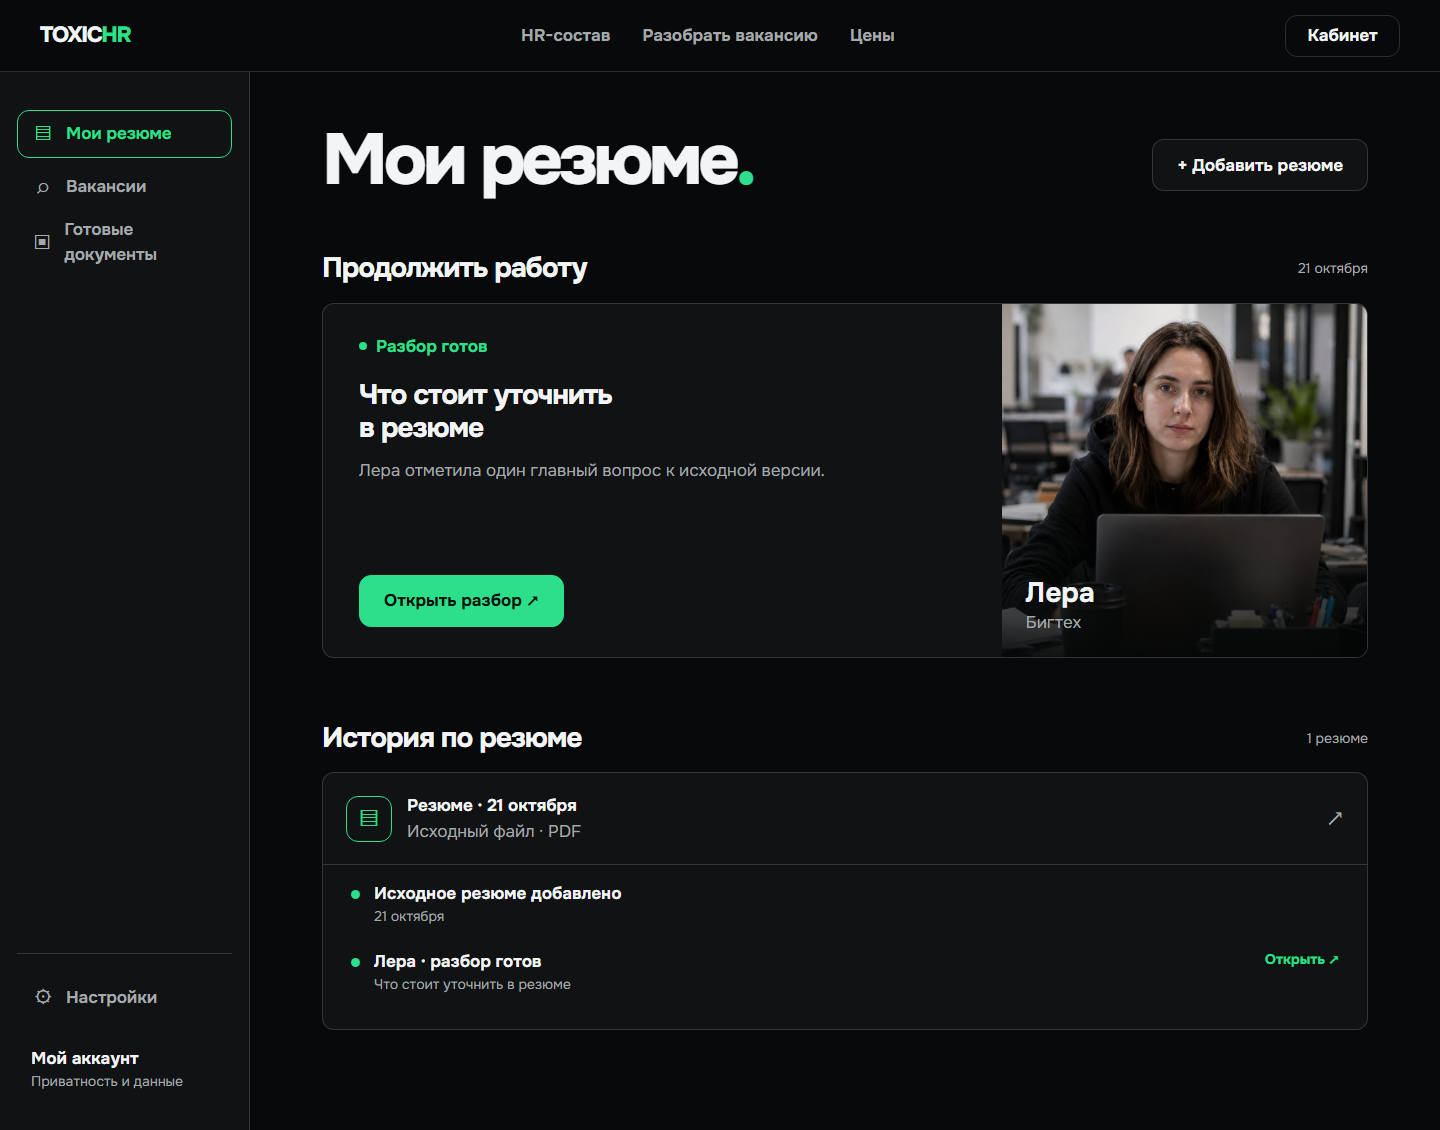
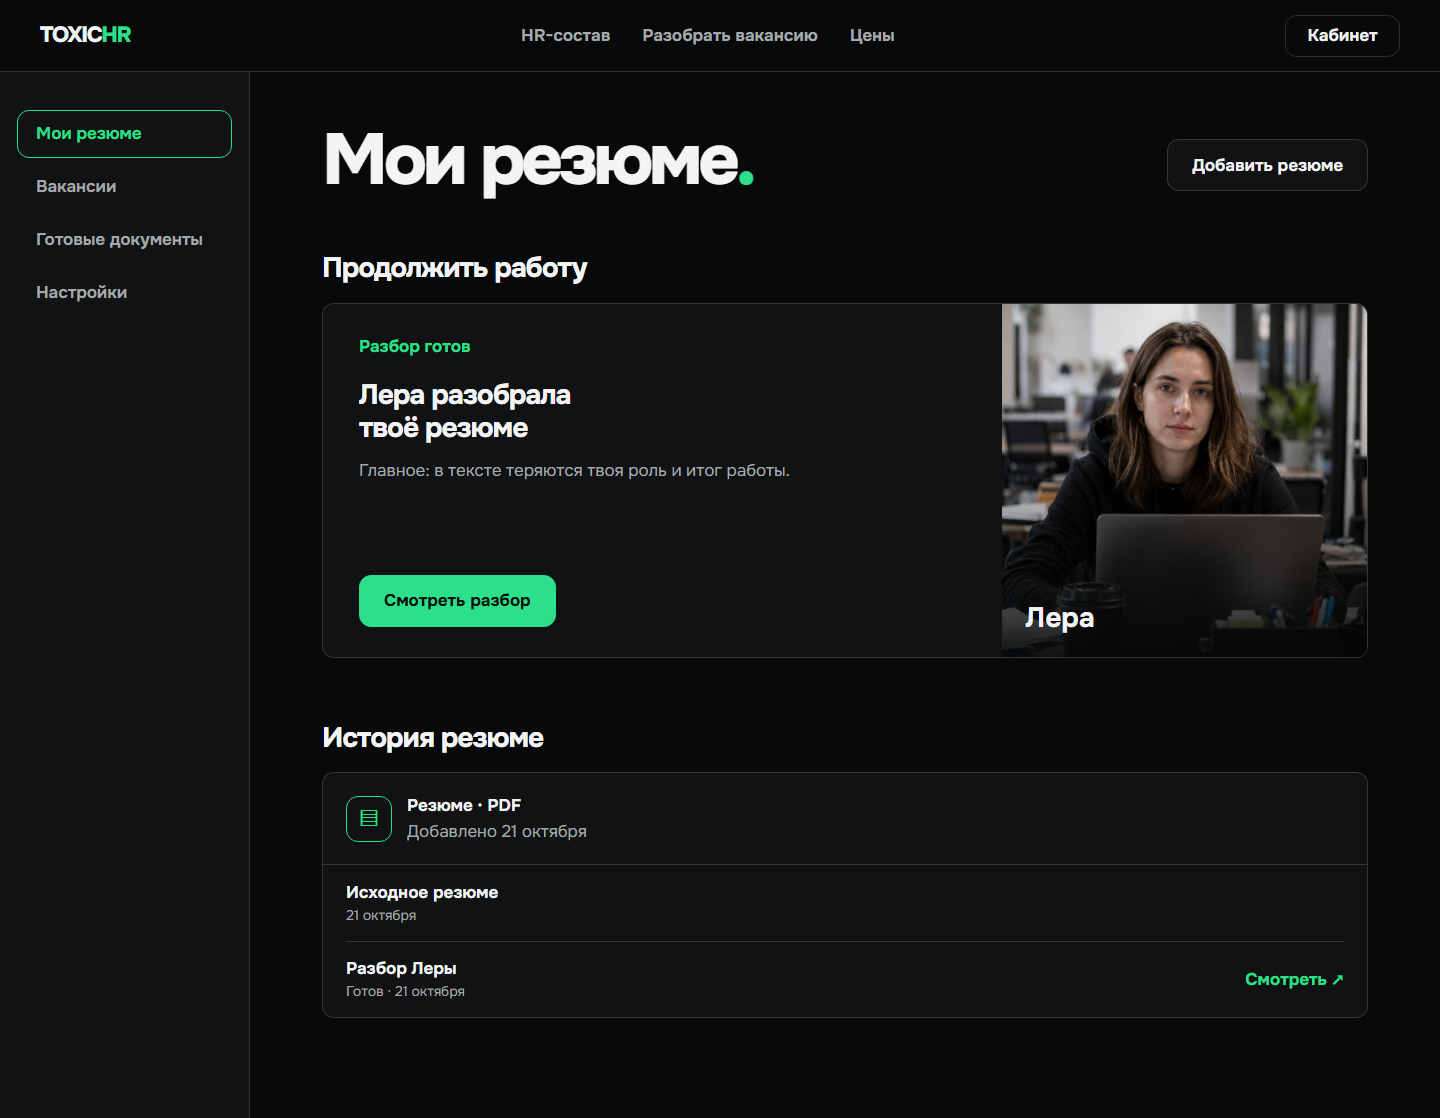
Refine ToxicHR cabinet mockup

diff --git a/prototypes/release-mockups/v2/style.css b/prototypes/release-mockups/v2/style.css
@@ -24,22 +24,18 @@
 .report-next strong { font-size: var(--type-heading); line-height: 1.16; }
 .report-next .button { min-width: 230px; }
 .cabinet-layout { display: grid; grid-template-columns: 250px minmax(0, 1fr); width: min(1480px, 100%); min-height: calc(100vh - 72px); margin: auto; }
-.side-nav { display: flex; min-height: 900px; flex-direction: column; padding: 38px 17px; border-right: 1px solid var(--border); background: var(--surface); }
+.side-nav { display: flex; min-height: calc(100vh - 72px); flex-direction: column; padding: 38px 17px; border-right: 1px solid var(--border); background: var(--surface); }
 .side-nav nav { display: flex; flex-direction: column; gap: 5px; }
-.side-item { display: flex; min-height: 48px; align-items: center; gap: 12px; padding: 0 14px; border: 1px solid transparent; border-radius: var(--radius); color: var(--muted); font-weight: 650; }
+.side-item { display: flex; min-height: 48px; align-items: center; padding: 0 18px; border: 1px solid transparent; border-radius: var(--radius); color: var(--muted); font-weight: 650; }
 .side-item.active { border-color: var(--accent); color: var(--accent); }
-.side-icon { display: grid; width: 22px; place-items: center; font-size: 21px; font-style: normal; font-weight: 400; }
-.side-bottom { margin-top: auto; padding-top: 20px; border-top: 1px solid var(--border); }
-.account { display: flex; flex-direction: column; margin: 24px 14px 0; }
-.account b { font-weight: 700; }
+.mobile-label { display: none; }
 .cabinet-main { min-width: 0; padding: 52px clamp(28px, 5vw, 76px) 100px; }
 .cabinet-head { display: flex; align-items: end; justify-content: space-between; gap: 20px; }
 .cabinet-head .button { margin-bottom: 6px; }
 .section-title { display: flex; align-items: center; justify-content: space-between; gap: 16px; margin: 55px 0 18px; }
 .resume-feature { display: grid; grid-template-columns: minmax(0, 1.3fr) minmax(260px, .7fr); height: 355px; overflow: hidden; border: 1px solid var(--border); border-radius: var(--radius); background: var(--surface); }
 .feature-copy { display: flex; flex-direction: column; align-items: flex-start; padding: 30px 36px; }
-.ready { display: flex; align-items: center; gap: 9px; color: var(--accent); font-weight: 700; }
-.ready i { width: 8px; height: 8px; border-radius: 50%; background: var(--accent); }
+.ready { color: var(--accent); font-weight: 700; }
 .feature-copy h2 { margin-top: 20px; }
 .feature-copy p { margin-top: 14px; color: var(--muted); }
 .feature-copy .button { margin-top: auto; }
@@ -48,7 +44,6 @@
 .feature-photo::after { content: ''; position: absolute; inset: 45% 0 0; background: linear-gradient(transparent, rgba(5, 7, 7, .94)); }
 .feature-photo > div { position: absolute; z-index: 1; right: 24px; bottom: 22px; left: 24px; display: flex; flex-direction: column; }
 .feature-photo b { font-size: var(--type-heading); line-height: 1.16; }
-.feature-photo span { color: var(--muted); }
 .history-title { margin-top: 64px; }
 .history-card { border: 1px solid var(--border); border-radius: var(--radius); background: var(--surface); }
 .history-head { display: flex; align-items: center; gap: 15px; padding: 20px 23px; border-bottom: 1px solid var(--border); }
@@ -56,10 +51,9 @@
 .history-head > div:nth-child(2), .history-entry > div { display: flex; flex-direction: column; }
 .history-head b, .history-entry b { font-weight: 700; }
 .history-head span { color: var(--muted); }
-.history-arrow { margin-left: auto; color: var(--accent); font-size: 25px; }
-.history-entries { padding: 16px 28px 12px; }
-.history-entry { display: flex; min-height: 68px; align-items: flex-start; gap: 14px; }
-.history-entry > i { flex: 0 0 9px; width: 9px; height: 9px; margin-top: 9px; border-radius: 50%; background: var(--accent); }
+.history-entries { padding: 0 23px; }
+.history-entry { display: flex; min-height: 76px; align-items: center; gap: 14px; }
+.history-entry + .history-entry { border-top: 1px solid var(--border); }
 .entry-action { margin-left: auto; color: var(--accent) !important; font-weight: 700; }
 @media (max-width: 1050px) {
   .report-hero { grid-template-columns: minmax(0, 1fr) 320px; gap: 30px; }
@@ -84,9 +78,10 @@
   .report-next .button { width: 100%; }
   .cabinet-layout { display: block; }
   .side-nav { min-height: 0; padding: 12px 18px; border-right: 0; border-bottom: 1px solid var(--border); }
-  .side-nav nav { flex-direction: row; flex-wrap: wrap; gap: 6px; }
-  .side-item { flex: 0 0 auto; min-height: 42px; padding: 0 12px; white-space: nowrap; }
-  .side-bottom { display: none; }
+  .side-nav nav { display: grid; grid-template-columns: repeat(2, minmax(0, 1fr)); gap: 6px; }
+  .side-item { min-height: 42px; padding: 0 12px; }
+  .desktop-label { display: none; }
+  .mobile-label { display: inline; }
   .cabinet-main { padding: 36px 18px 70px; }
   .cabinet-head { align-items: flex-start; flex-direction: column; }
   .section-title { margin-top: 43px; }

diff --git a/prototypes/release-mockups/v2/index.html b/prototypes/release-mockups/v2/index.html
@@ -47,12 +47,12 @@
 
     <section class="screen cabinet-screen" data-screen="cabinet" aria-label="Личный кабинет">
       <div class="cabinet-layout">
-        <aside class="side-nav"><nav aria-label="Разделы кабинета"><span class="side-item active"><i class="side-icon">▤</i> Мои резюме</span><span class="side-item"><i class="side-icon">⌕</i> Вакансии</span><span class="side-item"><i class="side-icon">▣</i> Готовые документы</span></nav><div class="side-bottom"><span class="side-item"><i class="side-icon">⚙</i> Настройки</span><span class="account"><b>Мой аккаунт</b><small>Приватность и данные</small></span></div></aside>
-        <div class="cabinet-main"><div class="cabinet-head"><h1>Мои резюме<span class="fullstop">.</span></h1><span class="button outline">+ Добавить резюме</span></div>
-          <div class="section-title"><h2>Продолжить работу</h2><span>21 октября</span></div>
-          <div class="resume-feature"><div class="feature-copy"><span class="ready"><i></i> Разбор готов</span><h2>Что стоит уточнить<br>в резюме</h2><p>Лера отметила один главный вопрос к исходной версии.</p><span class="button green">Открыть разбор ↗</span></div><div class="feature-photo"><img src="../../../public/hr/lera.jpg" alt="Лера, HR из бигтеха"><div><b>Лера</b><span>Бигтех</span></div></div></div>
-          <div class="section-title history-title"><h2>История по резюме</h2><span>1 резюме</span></div>
-          <div class="history-card"><div class="history-head"><div class="file-icon">▤</div><div><b>Резюме · 21 октября</b><span>Исходный файл · PDF</span></div><span class="history-arrow">↗</span></div><div class="history-entries"><div class="history-entry"><i></i><div><b>Исходное резюме добавлено</b><span>21 октября</span></div></div><div class="history-entry"><i></i><div><b>Лера · разбор готов</b><span>Что стоит уточнить в резюме</span></div><span class="entry-action">Открыть ↗</span></div></div></div>
+        <aside class="side-nav"><nav aria-label="Разделы кабинета"><span class="side-item active">Мои резюме</span><span class="side-item">Вакансии</span><span class="side-item"><span class="desktop-label">Готовые документы</span><span class="mobile-label">Документы</span></span><span class="side-item">Настройки</span></nav></aside>
+        <div class="cabinet-main"><div class="cabinet-head"><h1>Мои резюме<span class="fullstop">.</span></h1><span class="button outline">Добавить резюме</span></div>
+          <div class="section-title"><h2>Продолжить работу</h2></div>
+          <div class="resume-feature"><div class="feature-copy"><span class="ready">Разбор готов</span><h2>Лера разобрала<br>твоё резюме</h2><p>Главное: в тексте теряются твоя роль и итог работы.</p><a class="button green" href="#report">Смотреть разбор</a></div><div class="feature-photo"><img src="../../../public/hr/lera.jpg" alt="Лера"><div><b>Лера</b></div></div></div>
+          <div class="section-title history-title"><h2>История резюме</h2></div>
+          <div class="history-card"><div class="history-head"><div class="file-icon" aria-hidden="true">▤</div><div><b>Резюме · PDF</b><span>Добавлено 21 октября</span></div></div><div class="history-entries"><div class="history-entry"><div><b>Исходное резюме</b><span>21 октября</span></div></div><div class="history-entry"><div><b>Разбор Леры</b><span>Готов · 21 октября</span></div><a class="entry-action" href="#report">Смотреть ↗</a></div></div></div>
         </div>
       </div>
     </section>

diff --git a/WORK-IN-PROGRESS.md b/WORK-IN-PROGRESS.md
@@ -10,8 +10,9 @@
 - 21.10: по отзыву пользователя отдельно пересобран макет результата: голос Леры, три одинаковых наблюдения, одно действие; убраны повторяющиеся статусы, подпись персоны, декоративные линии и строка с полным комментарием. Кабинет и рабочее приложение не менялись.
 - 21.10: в макете результата под кратким итогом добавлены три раскрывающихся пояснения к сохранённому замечанию о вкладе, результате и масштабе; цена и действие размещены после них. Десктопный и мобильный скриншоты обновлены. Рабочий сайт не менялся.
 - 21.10: по новому референсу в том же макете изменена композиция разбора: крупный вывод и портрет рядом, замечания раскрывают «Что вижу / Как исправить», платное действие завершает страницу. Общая дизайн-система не менялась; рабочий сайт и кабинет не тронуты.
+- 21.10: пользователь одобрил новое направление макета разбора. Макет кабинета приведён к этому же содержанию и визуальному языку: четыре реальных раздела слева, последнее действие с резюме и история внутри его карточки. Убраны старый заголовок разбора, лишний блок аккаунта и счётчики; рабочий сайт не менялся.
 - Принято пользователем: направление крупной HR-карусели, акцентные действия с резюме и лаконичная форма входа. Финальная приёмка интеграции не зафиксирована.
-- Осталось: согласовать новый порядок запуска и итоговый интерфейс; затем по отдельным командам подготовить релиз и опубликовать. Действующий `toxichr.ru` всё ещё на прежней версии.
+- Осталось: согласовать макет кабинета, перенести утверждённые внутренние экраны в рабочее приложение и пройти релизные контрольные точки. Действующий `toxichr.ru` всё ещё на прежней версии.
 - Публикация: по `docs/LAUNCH.md` вручную на REG.Cloud сервере из `/opt/toxichr` через `docker compose ... build app` и `up -d`. В репозитории GitHub Actions на push запускает только lint/typecheck; внешний автодеплой не подтверждён, поэтому push без отдельного выяснения не делать.
 - Проверено адресно: ручной ввод тестового текста на локальной главной — до выбора HR запуск недоступен, после выбора нужен отдельный клик и согласие; изменённые TS-файлы прошли ESLint. Общая типизация остановилась на старой ошибке TS2367 в `src/app/api/auth/forgot-password/route.ts`, вне этой правки.
 - Отложено: полный CI, боевые AI/платёж, проверки production и финальная визуальная приёмка.

diff --git a/BURNDOWN.md b/BURNDOWN.md
@@ -747,3 +747,9 @@
 
 - В варианте с каруселью две маленькие кнопки заменены на крупные действия под заголовком: яркая загрузка файла и более спокойная вставка текста. Статусы файла и текста сокращены до необходимого.
 - Добавлен отдельный локальный макет входа: только почта, пароль, кнопка входа и ссылки на регистрацию и сброс пароля. Регистрация содержит согласие; лишние заголовки и пояснения действующей страницы в макет не перенесены. Ссылки из сравнительной главной ведут в этот макет; действующие маршруты и авторизация не менялись.
+
+## 21.10.2026 — макет личного кабинета
+
+- После одобрения направления экрана разбора обновлён связанный макет кабинета. Основное действие ведёт к разбору; события загрузки и разбора собраны внутри карточки резюме.
+- В левом меню оставлены только существующие сущности: резюме, вакансии, готовые документы и настройки. Убраны декоративные значки, повторяющиеся статусы и дополнительная подпись аккаунта.
+- Обновлены локальные снимки кабинета на компьютере и телефоне. Рабочие маршруты приложения, данные и production не менялись.
